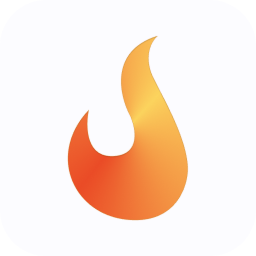
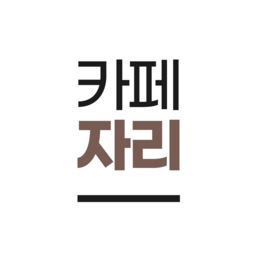
[fix] meta tag 수정 및 webclip 이미지 수정

Changed region(s): [[0.25, 0.125, 0.75, 0.875]]

diff --git a/templates/index.html b/templates/index.html
@@ -6,17 +6,16 @@
 <html data-wf-page="64c4bf43a0442cfa0e21a08b" data-wf-site="64c4bf42a0442cfa0e21a063">
 
 <head>
-    <meta charset="utf-8">
     <title>카페자리</title>
-    <meta content="Malta - Webflow HTML website template" name="description">
-    <meta content="Malta - Webflow HTML website template" property="og:title">
-    <meta content="Malta - Webflow HTML website template" property="og:description">
-    <meta content="Malta - Webflow HTML website template" property="twitter:title">
-    <meta content="Malta - Webflow HTML website template" property="twitter:description">
-    <meta property="og:type" content="website">
+    <meta charset="utf-8">
+    <meta content="카페, 스타벅스, 투썸, 투썸플레이스, 할리스, 할리스커피, 이디야, 이디야커피, 메가커피, 메가커피, 메가MGC커피, 엔젤리너스, 탐앤탐스, 파스쿠찌, 파스쿠치, 커피, 혼잡도, 카페자리, 좌석, 카페지도, 지도, 카페좌석" name="keyword" >
+    <meta content="카페자리 서비스의 공식 웹페이지 입니다." name="description">
+    <meta content="카페자리" property="og:title">
+    <meta content="카페자리 서비스의 공식 웹페이지 입니다." property="og:description">
+    <meta content="카페자리" property="twitter:title">
+    <meta content="카페자리 서비스의 공식 웹페이지 입니다." property="twitter:description">
     <meta content="summary_large_image" name="twitter:card">
     <meta content="width=device-width, initial-scale=1" name="viewport">
-    <meta content="Webflow" name="generator">
     <link href="{% static 'main/css/normalize.css' %}" rel="stylesheet" type="text/css">
     <link href="{% static 'main/css/webflow.css' %}" rel="stylesheet" type="text/css">
     <link href="{% static 'main/css/yongus-stupendous-site.webflow.css' %}" rel="stylesheet" type="text/css">
